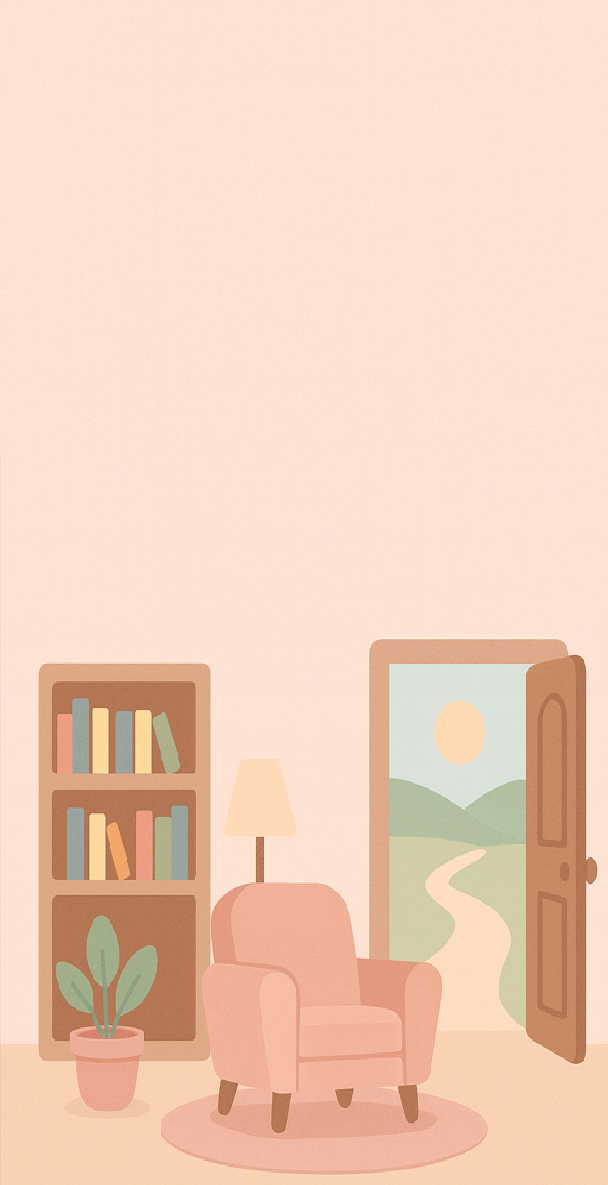
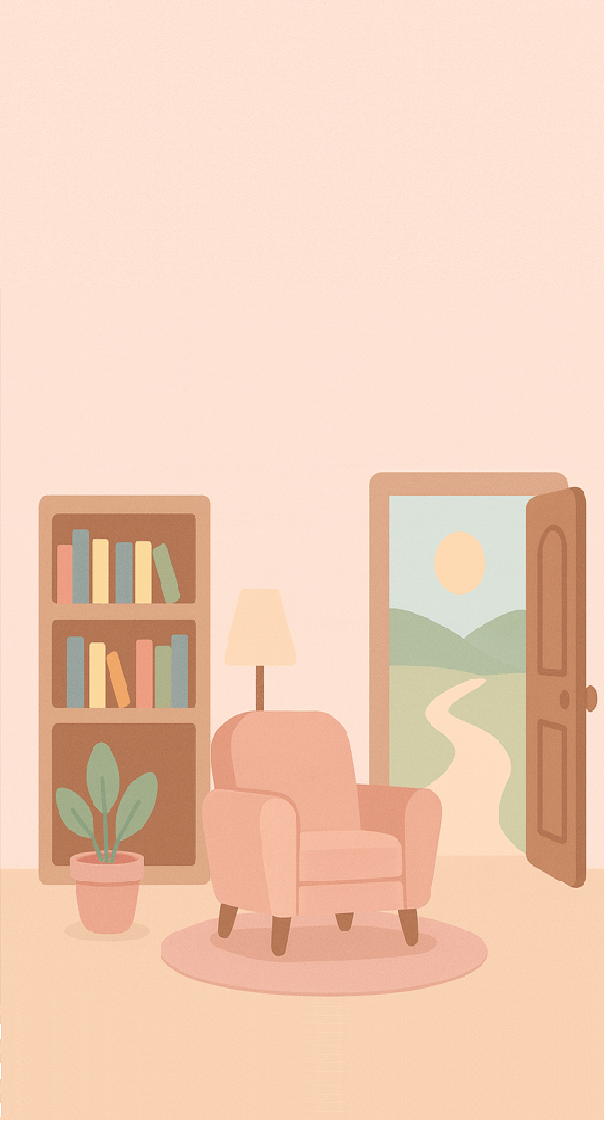
more great work of bat on styling

diff --git a/screens/home/HomeScreen.js b/screens/home/HomeScreen.js
@@ -17,12 +17,12 @@ import ParrotChatBtn from "../../components/ParrotChatBtn";
 
         
 // import pour les infobulles
-import AsyncStorage from '@react-native-async-storage/async-storage';
-import InfoBubble from "../../components/InfoBulleHome";
+import AsyncStorage from '@react-native-async-storage/async-storage'; // pour le stockage local
+import InfoBubble from "../../components/InfoBulleHome"; // composant infobulle personnalisé
 
 
 // Obtenir les dimensions de l'écran pour l'exemple
-const { width, height } = Dimensions.get("window");
+const { width, height } = Dimensions.get('window'); // dimensions de l'écran utilisé pour positionner les boutons
 
 
 
@@ -61,31 +61,33 @@ const PulsingButton = ({ onPress, color, style }) => {
   // const centerColor = color || '#FF5722';
   const rippleColor = color || "#FF5722";
 
-  return (
-    // RETURN DES PULSING BUTTON
-    <View style={[styles.buttonWrapper, style]}>
-      {/* L'anneau animé en arrière-plan */}
-      <Animated.View
-        style={[
-          styles.pulseRing,
-          {
-            backgroundColor: rippleColor,
-            // On applique les transformations calculées au-dessus
-            transform: [{ scale: scaleAnim }],
-            opacity: opacityAnim,
-          },
-        ]}
-      />
 
-      {/* Le bouton central cliquable */}
-      <TouchableOpacity
-        activeOpacity={0.7}
-        onPress={onPress}
-        style={[styles.buttonCenter, { backgroundColor: "transparent" }]}
-      />
-    </View>
-  );
+    return ( // RETURN DES PULSING BUTTON
+      <View style={[styles.buttonWrapper, style]}>
+        
+        {/* L'anneau animé en arrière-plan */}
+          <Animated.View
+            style={[
+              styles.pulseRing,
+              {
+                backgroundColor: rippleColor,
+                // On applique les transformations calculées au-dessus
+                transform: [{ scale: scaleAnim }],
+                opacity: opacityAnim,
+              },
+            ]}
+          />
+
+        {/* Le bouton central cliquable */}
+          <TouchableOpacity
+            activeOpacity={0.7}
+            onPress={onPress}
+            style={[styles.buttonCenter, { backgroundColor: 'transparent' }]}
+          />
+      </View>
+    );
 };
+
 
 export default function HomeScreen({ navigation }) {
 
@@ -97,55 +99,64 @@ export default function HomeScreen({ navigation }) {
 
 
     useEffect(() => {
-      console.log('[HomeScreen -- Infobulle] 🚀 useEffect (Mount) -> Lancement de checkVisitCount');
+      // console.log('[HomeScreen -- Infobulle] 🚀 useEffect (Mount) -> Lancement de checkVisitCount');
       checkVisitCount();
     }, []);
 
-    const checkVisitCount = async () => {
-      try {
-        // console.log('[HomeScreen -- Infobulle] ⏳ Début lecture AsyncStorage...');
-        const visitCount = await AsyncStorage.getItem('visitCount');
-          console.log(`[HomeScreen -- Infobulle] Valeur brute récupérée du stockage: ${visitCount}`);
+    const checkVisitCount = () => {
+      // console.log('[HomeScreen -- Infobulle] ⏳ Début lecture AsyncStorage...');
+      
+      AsyncStorage.getItem('visitCount') // permet de recuperer le compteur de visites
+      // rappel. asyncStorage est une API de stockage local pour react native; similaire au localStorage du navigateur web.
+        .then((visitCount) => {
+          // console.log(`[HomeScreen -- Infobulle] Valeur brute récupérée du stockage: ${visitCount}`);
+          
+          const count = visitCount ? parseInt(visitCount) : 0; // ParseInt est une fonction JS qui convertit une chaine de caractères (string) en nombre entier
+          const newCount = count + 1; // a chaque visite on incrémente le compteur de 1.
+          
+          console.log(`[HomeScreen -- Infobulle] Calcul compteur: Ancien=${count} -> Nouveau=${newCount}`);
 
-        const count = visitCount ? parseInt(visitCount) : 0;
-        const newCount = count + 1;
-        
-          console.log(`[HomeScreen -- Infobulle]  Calcul compteur: Ancien=${count} -> Nouveau=${newCount}`);
-
-        await AsyncStorage.setItem('visitCount', newCount.toString());
-        // console.log('[HomeScreen -- Infobulle]  Nouveau compteur sauvegardé dans AsyncStorage');
-
-        if (newCount === 1) {
-            console.log('[HomeScreen -- Infobulle]  Condition: 1ère visite -> Mise à jour state "Bienvenue sur Murmure"');
-          setInfoBubble({ visible: true, message: "Bienvenue sur Murmure!\n\nSouhaitez vous me parler ou commencer votre parcours?\n\nJe vous invite à cliquer sur l'étagère ou la porte vers le jardin." });
-        
-        } else if (newCount >= 2) {
-            console.log('[HomeScreen -- Infobulle]  Condition: 2ème visite ou plus -> Mise à jour state "Ravi de vous revoir"');
-          setInfoBubble({ visible: true, message: "✨ Ravi de vous revoir! ✨\n\nComment allez-vous aujourd'hui?\n\nSouhaitez-vous continuer vers votre parcours ou initier une séance de relaxation?"});
-        }
-
-      } catch (error) {
+          return AsyncStorage.setItem('visitCount', newCount.toString()) //fonction toString() permet de convertir un nombre en chaîne de caractères => nécessaire car AsyncStorage ne stocke que des chaînes de caractères
+             .then(() => {
+              // console.log('[HomeScreen -- Infobulle] Nouveau compteur sauvegardé dans AsyncStorage');
+              
+              if (newCount === 1) { // condition pour la 1ère visite
+                // console.log('[HomeScreen -- Infobulle] Condition: 1ère visite -> Mise à jour state "Bienvenue sur Murmure"');
+                setInfoBubble({ 
+                  visible: true, 
+                  message: "Bienvenue sur Murmure!\n\nSouhaitez vous me parler ou commencer votre parcours?\n\nJe vous invite à cliquer sur l'étagère ou la porte vers le jardin.\n\n N'hésites pas à venir me parler!" 
+                });
+              
+              } else if (newCount >= 2) { // condition pour les visites suivantes
+                // console.log('[HomeScreen -- Infobulle] Condition: 2ème visite ou plus -> Mise à jour state "Ravi de vous revoir"');
+                setInfoBubble({ 
+                  visible: true, 
+                  message: "✨ Ravi de vous revoir! ✨\n\nComment allez-vous aujourd'hui?\n\nSouhaitez-vous continuer vers votre parcours ou initier une séance de relaxation?\n\nOu peut-être préférez-vous me parler?" 
+                });
+              }
+            });
+        })
+        .catch((error) => {
           console.error('[HomeScreen -- Infobulle] ❌ Erreur lors de la vérification des visites:', error);
-      }
+        });
     };
 
     const closeInfoBubble = () => {
-        console.log('[HomeScreen -- Infobulle] 🔇 Appel de closeInfoBubble -> Reset du state');
+        // console.log('[HomeScreen -- Infobulle] 🔇 Appel de closeInfoBubble -> Reset du state');
       setInfoBubble({ visible: false, message: '' });
     };
 
-    // FONCTION TEMPORAIRE DE TEST - À commenter plus tard
-    const resetVisitCount = async () => {
-      try {
-        await AsyncStorage.removeItem('visitCount');
+    // FONCTION TEMPORAIRE DE TEST - À commenter plus tard // sert à réinitialiser le compteur de visites
+    const resetVisitCount = () => {
+      AsyncStorage.removeItem('visitCount')
+        .then(() => {
           console.log('[HomeScreen -- Infobulle] 🔄 Compteur réinitialisé ! Rechargez la page pour tester.');
           Alert.alert('Compteur réinitialisé', 'Fermes et rouvres l\'écran pour voir la bulle de bienvenue.');
-      } catch (error) {
+        })
+        .catch((error) => {
           console.error('[HomeScreen -- Infobulle] ❌ Erreur lors de la réinitialisation:', error);
-      }
+        });
     };
-
-
 
     return (
       <ImageBackground style={styles.background}
@@ -175,7 +186,7 @@ export default function HomeScreen({ navigation }) {
                         }}
                     />
 
-                  {/* BOUTON TEMPORAIRE DE TEST - À commenter plus tard  */}
+                  {/* BOUTON TEMPORAIRE DE TEST POUR REINITIALISER LE COMPTEUR - À commenter plus tard  */}
                     <Button
                         label="Reset Bulle"
                         type="primary"
@@ -209,8 +220,9 @@ export default function HomeScreen({ navigation }) {
                         onPress={() => {
                           console.log("ok le lien vers chatscreen fonctionne!");
                           navigation.navigate("ChatScreen");
-                        }}
-                      >Ecris moi si tu veux me parler !</Text>
+                        }}>
+                        {/* Ecris moi si tu veux me parler ! */}
+                      </Text>
                     </View>  
                       
 
@@ -290,18 +302,18 @@ const styles = StyleSheet.create({
   //   color: "#224C4A",
   // },
 
-  messageia: {
-    position: "relative",
-    backgroundColor: "#D8F0E4",
-    paddingVertical: 20,
-    paddingHorizontal: 20,
-    borderRadius: 12,
-    marginTop: 0,
-    right: 140,
+  // messageia: {
+  //   position: "relative",
+  //   backgroundColor: "#D8F0E4",
+  //   paddingVertical: 20,
+  //   paddingHorizontal: 20,
+  //   borderRadius: 12,
+  //   marginTop: 0,
+  //   right: 140,
     // padding: 40,
     // width: '100%',
     // alignSelf: 'center ',
-  },
+  // },
 
   dialogueperroquet: {
     position: "absolute",
@@ -383,13 +395,12 @@ const styles = StyleSheet.create({
   },
 
   pulsingEtagere: {
-    bottom: 300,    // Position depuis le bas
-    right: 130,      // Position depuis la gauche
+    bottom: 300,    
+    right: 130,     
   },
 
   pulsingCarte: {
-    bottom: 300,    // Position depuis le bas
-    left: 120,     // Position depuis la droite
+    bottom: 300,    
   },
 
 

diff --git a/components/InfoBulleHome.js b/components/InfoBulleHome.js
@@ -8,7 +8,7 @@ const InfoBubble = ({ message, visible, onClose }) => {
   console.log(`[InfoBubble] Rendu du composant. Visible: ${visible}, Message: "${message}"`);
 
   useEffect(() => {
-    console.log(`[InfoBubble] useEffect déclenché. État visible: ${visible}`);
+    // console.log(`[InfoBubble] useEffect déclenché. État visible: ${visible}`);
 
     if (visible) {
       console.log('[InfoBubble] 🟢 Condition TRUE : Démarrage animation apparition');
@@ -23,17 +23,17 @@ const InfoBubble = ({ message, visible, onClose }) => {
       // Auto-fermeture après 4 secondes
       console.log('[InfoBubble] ⏳ Démarrage du Timer (20s)');
       const timer = setTimeout(() => {
-        console.log('[InfoBubble] ⏰ Timer écoulé -> Appel de onClose()');
+        // console.log('[InfoBubble] ⏰ Timer écoulé -> Appel de onClose()');
         onClose();
       }, 20000);
 
       // Fonction de nettoyage
       return () => {
-        console.log('[InfoBubble]  Cleanup: Nettoyage du timer');
+        // console.log('[InfoBubble]  Cleanup: Nettoyage du timer');
         clearTimeout(timer);
       };
     } else {
-      console.log("[InfoBubble] l'infobulle disparait"),
+      // console.log("[InfoBubble] l'infobulle disparait"),
       
       Animated.timing(fadeAnim, {
         toValue: 0,
@@ -45,7 +45,7 @@ const InfoBubble = ({ message, visible, onClose }) => {
 
   // LOGIQUE CRITIQUE ICI
   if (!visible) {
-    console.log('[InfoBubble] ⛔ Erreur : Le composant ne s\'affiche pas');
+    console.log('[InfoBubble] ⛔ Erreur : Le composant ne s\'affiche pas . Rendu est "null".');
     return null;
   }
 
@@ -54,7 +54,7 @@ const InfoBubble = ({ message, visible, onClose }) => {
       <TouchableOpacity 
         style={styles.infoBubble}
         onPress={() => {
-            console.log('[InfoBubble]  Clic utilisateur sur X -> Fermeture de l\'infobulle');
+            //console.log('[InfoBubble]  Clic utilisateur sur X -> Fermeture de l\'infobulle');
             onClose();
         }}
         activeOpacity={0.9}

diff --git a/navigation/AppNavigator.js b/navigation/AppNavigator.js
@@ -35,13 +35,11 @@ export default function AppNavigator() {
   return (
     <Stack.Navigator
       initialRouteName="WelcomeScreen" //Ici chacun met le nom de son screen, comme ça qd on lance expoGo on arrive dessus. A la fin, on mettre "WelcomeScreen"
-
-      screenOptions={{ headerShown: false }}
-    >
+      screenOptions={{ headerShown: false }}>
       {/* Page de bienvenue paysage */}
       <Stack.Screen name="WelcomeScreen" component={WelcomeScreen} />
 
-      { /* Home et loading */}
+      {/* Home et loading */}
       <Stack.Screen name="Home" component={HomeScreen} />
 
       {/* Chat avec IA A SUPPRIMER!!!!*/}
@@ -50,9 +48,9 @@ export default function AppNavigator() {
       {/* Mon Compte */}
       <Stack.Screen name="Compte" component={CompteScreen} />
 
-      <Stack.Screen name="SignUp" component={SignUpScreen} options={{ headerShown: false }}/>
+      <Stack.Screen name="SignUp" component={SignUpScreen} options={{ headerShown: false }} />
 
-      <Stack.Screen name="SignIn" component={SignInScreen} options={{ headerShown: false }}/>
+      <Stack.Screen name="SignIn" component={SignInScreen} options={{ headerShown: false }} />
 
       {/* Shelves (étagère) */}
       <Stack.Screen name="Shelves" component={ShelvesScreen} />
@@ -76,12 +74,12 @@ export default function AppNavigator() {
         name="Chat"
         component={ChatScreen}
         options={{
-           presentation: "modal",
+          presentation: "modal",
           headerShown: false,
           animation: "slide_from_bottom",
           keyboardHandlingEnabled: false, // <-- Ajoute ça
           // behavior: "position", //ne pas effacer, indispensable pour KeyAvoindingView
-         }}
+        }}
       />
     </Stack.Navigator>
   );

diff --git a/App.js b/App.js
@@ -28,10 +28,10 @@ export default function App() {
         // 2. Charger les images ici
         await Asset.loadAsync([
           require('./assets/paysage-bienvenue.png'),
-          require('./assets/homescreen.png'),
+          require('./assets/homescreen-2.png'),
           require('./assets/etagereCoco.png'),
           require('./assets/perroquet.png'),
-          require('./assets/map.png'),
+          require('./assets/mapscreen-2.png'),
           require('./assets/meditation/meditation.png'),
           require('./assets/meditation/meditationBkg.png'),
         ]);

diff --git a/components/Fire.js b/components/Fire.js
@@ -1,0 +1,5 @@
+export default function Fire() {
+  return (
+    <Text>Fire</Text>
+  )
+}
